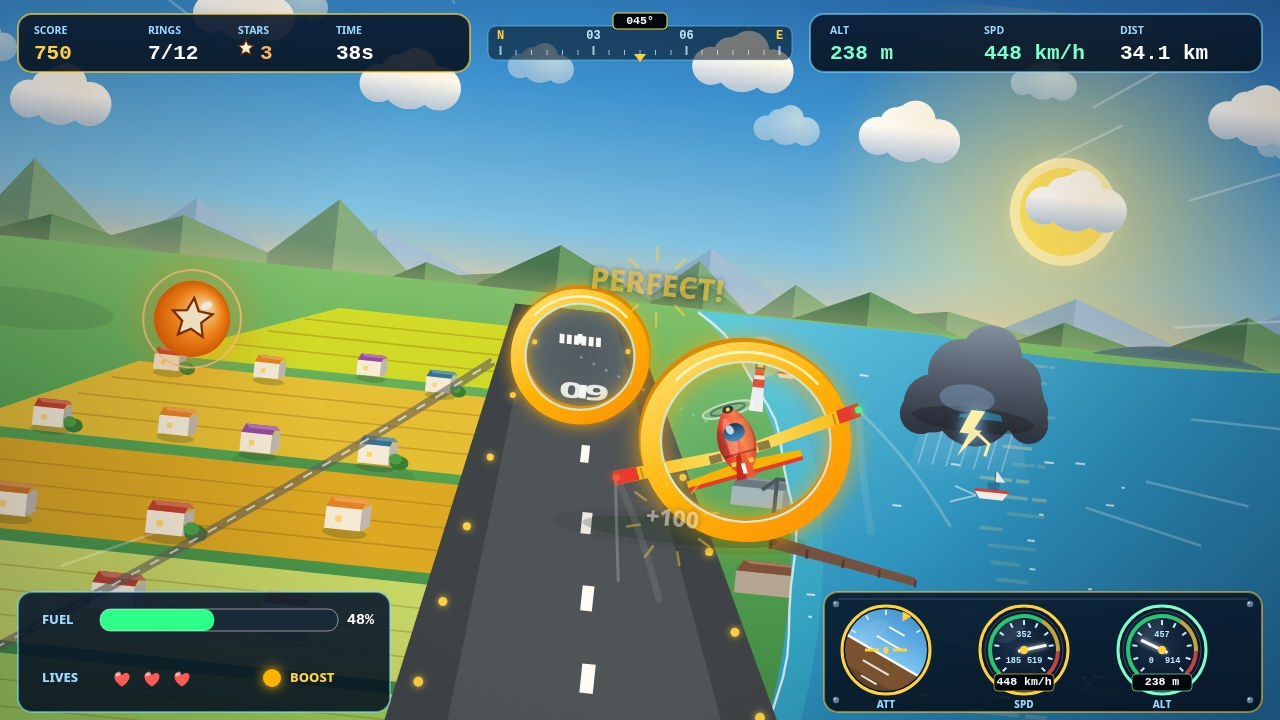
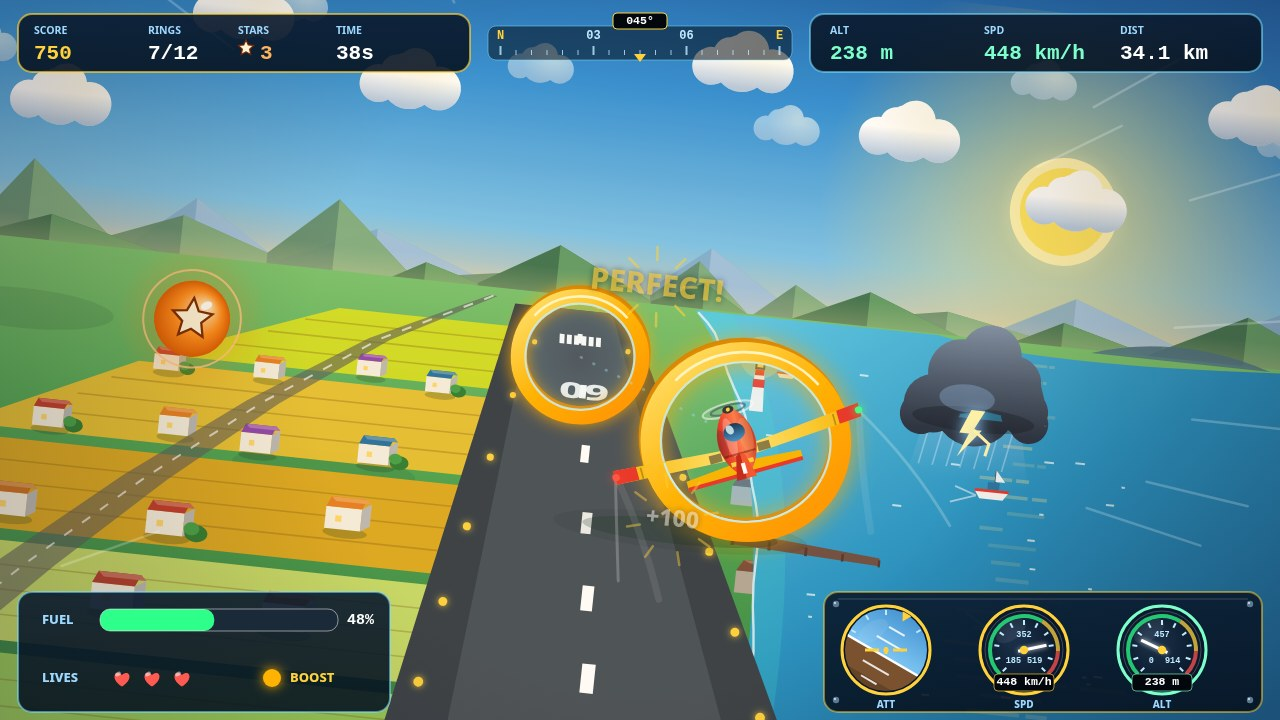
Flatten background angle: forward-receding road, straighter coastline, flatter pier

diff --git a/game/src/render.js b/game/src/render.js
@@ -525,11 +525,14 @@ export function createRenderer(canvas) {
 
   // Point on the harbour shoreline: the same quadratic bezier the water
   // path is built from, so foam, shallows and the pier all sit exactly
-  // on the coast instead of drifting across the land.
+  // on the coast instead of drifting across the land. The curve is kept
+  // nearly straight — a gentle bow, little top-to-bottom drift — so the
+  // coast reads as running away from the viewer toward the horizon,
+  // not as a diagonal sliding across the frame.
   function shorePoint(t, hor, shX) {
     const mt = 1 - t;
     return [
-      mt * mt * 752 + 2 * mt * t * 930 + t * t * 852 + shX,
+      mt * mt * 752 + 2 * mt * t * 864 + t * t * 834 + shX,
       mt * mt * (hor + 2) + 2 * mt * t * (hor + 130) + t * t * (H + 70),
     ];
   }
@@ -797,26 +800,36 @@ export function createRenderer(canvas) {
     ctx.beginPath(); ctx.moveTo(crx + 38, cry - 56); ctx.lineTo(crx + 38, cry - 38); ctx.stroke();
     ctx.fillStyle = '#e67e22';
     ctx.fillRect(crx + 33, cry - 38, 10, 8);
-    // road sweeping through the town toward the runway
-    ctx.strokeStyle = 'rgba(90,90,90,0.6)';
-    ctx.lineWidth = 9;
+    // road through the town: a ground-projected strip at constant u,
+    // threaded between two house columns, so it recedes straight to
+    // the vanishing point like the runway does — the old diagonal
+    // sweep across the frame made the ground read as sliding sideways
+    ctx.fillStyle = 'rgba(90,90,90,0.6)';
     ctx.beginPath();
-    ctx.moveTo(-20, H + 30);
-    ctx.quadraticCurveTo(280, hor + 250, 500, hor + 74);
-    ctx.stroke();
+    for (let i = 0; i <= 6; i++) {
+      const [rx3, ry3] = groundPoint(-0.74, 0.05 + (i / 6) * 1.03, hor);
+      if (i === 0) ctx.moveTo(rx3, ry3); else ctx.lineTo(rx3, ry3);
+    }
+    for (let i = 6; i >= 0; i--) {
+      const [rx3, ry3] = groundPoint(-0.67, 0.05 + (i / 6) * 1.03, hor);
+      ctx.lineTo(rx3, ry3);
+    }
+    ctx.closePath(); ctx.fill();
     ctx.strokeStyle = 'rgba(255,255,255,0.65)';
     ctx.lineWidth = 2;
     ctx.setLineDash([10, 12]);
     ctx.beginPath();
-    ctx.moveTo(-20, H + 30);
-    ctx.quadraticCurveTo(280, hor + 250, 500, hor + 74);
+    for (let i = 0; i <= 6; i++) {
+      const [rx3, ry3] = groundPoint(-0.705, 0.05 + (i / 6) * 1.03, hor);
+      if (i === 0) ctx.moveTo(rx3, ry3); else ctx.lineTo(rx3, ry3);
+    }
     ctx.stroke();
     ctx.setLineDash([]);
 
     // ===== harbor: real water to the horizon on the right =====
     const waterPath = new Path2D();
     waterPath.moveTo(752 + shX, hor + 2);
-    waterPath.quadraticCurveTo(930 + shX, hor + 130, 852 + shX, H + 70);
+    waterPath.quadraticCurveTo(864 + shX, hor + 130, 834 + shX, H + 70);
     waterPath.lineTo(1420, H + 70);
     waterPath.lineTo(1420, hor - 8);
     waterPath.quadraticCurveTo(1120 + shX, hor + 26, 996 + shX, hor + 1);
@@ -878,7 +891,7 @@ export function createRenderer(canvas) {
     // reaches out over the water; its footing drifts slowly with dist
     const pierT = 0.54 + ((s.dist * 0.01) % 0.08);
     const [qx, qy] = shorePoint(pierT, hor, shX);
-    const px0 = qx - 20, py0 = qy + 4, px1 = qx + 128, py1 = qy + 30;
+    const px0 = qx - 20, py0 = qy + 4, px1 = qx + 128, py1 = qy + 14;
     ctx.fillStyle = '#6d4c41';
     ctx.beginPath();
     ctx.moveTo(px0, py0 - 6); ctx.lineTo(px1, py1 - 4);
